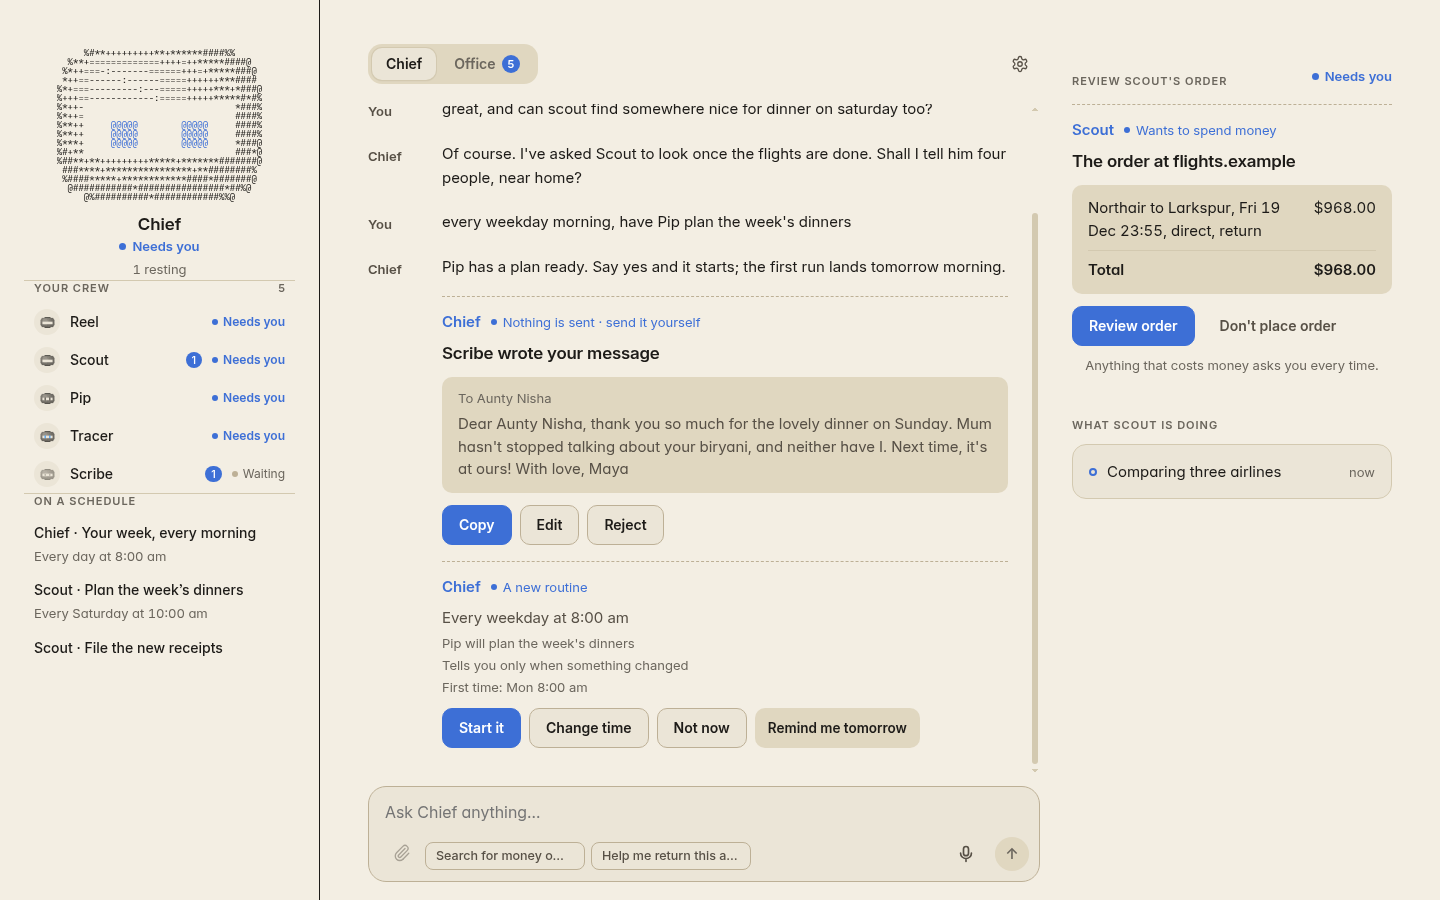
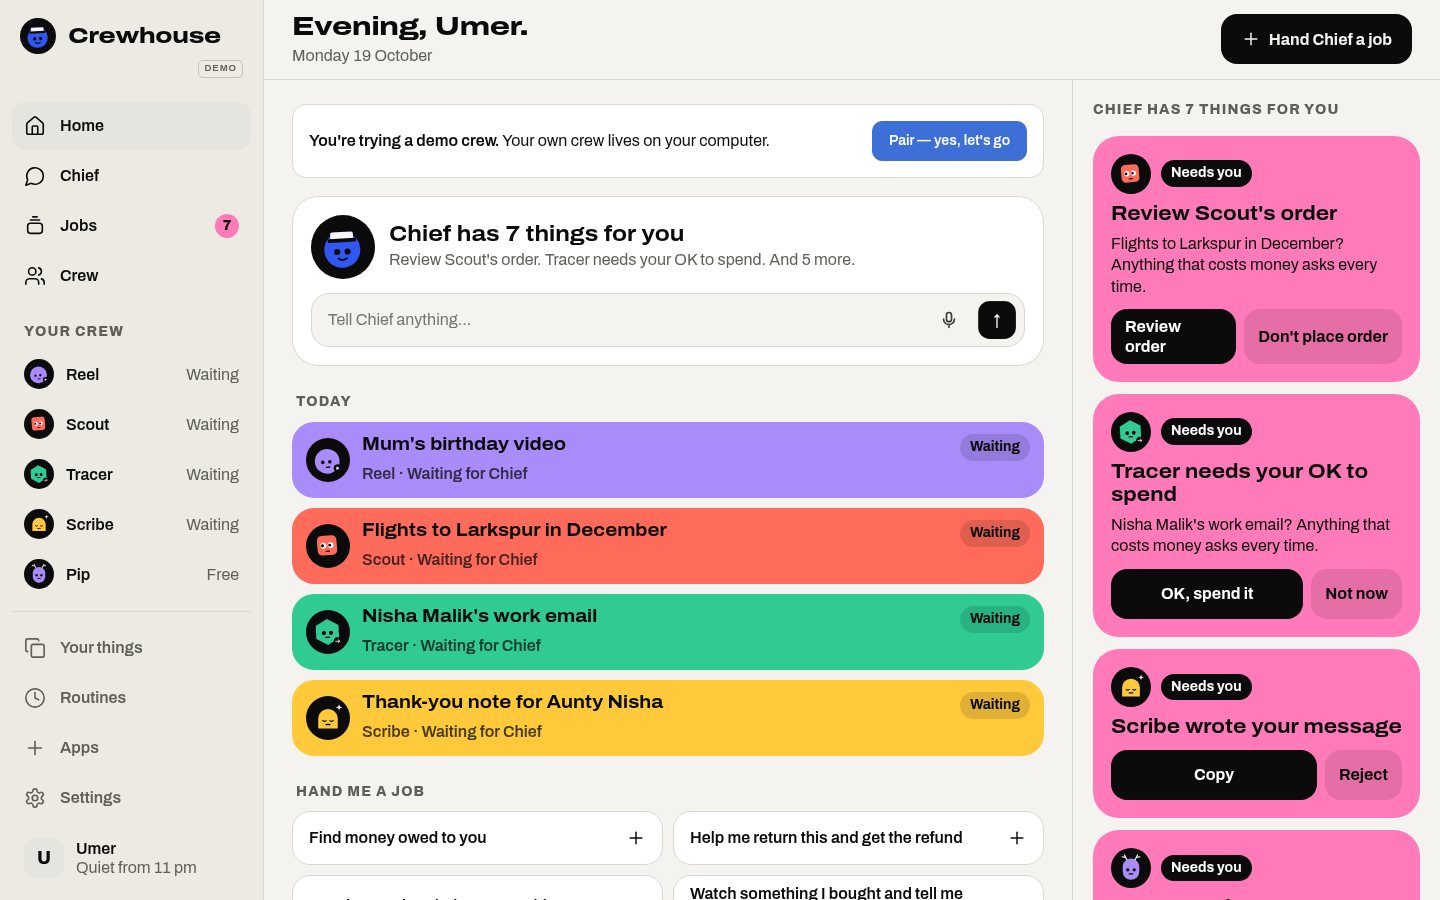
Demo: the made-up person is Umer, and the install sheet's screenshots show today's demo
The seed crew greeted 'Evening, Maya.'; demo data uses the name Umer. Rename it everywhere the demo shows it
(greeting, Settings, drafts and their sign-offs, the claim form, phones, Chief's lines) and in the tests and docs that
quote it. The manifest screenshots (web/shots) were the Inter-era app signed 'Maya'; they are now the Stack demo's
Home at 390x844@2 and 1440x900.

diff --git a/web/src/demo.ts b/web/src/demo.ts
@@ -1,5 +1,5 @@
 // A personal assistant demo in crewd's own shape, plus the fields the engine rework will add (docs/ui-contract.md).
-// Open the app with ?demo (Maya's crew), ?demo=hello (first run), ?demo=first (his first
+// Open the app with ?demo (Umer's crew), ?demo=hello (first run), ?demo=first (his first
 // request, waiting for his sign-in), ?demo=answer (Chief's first answer), ?demo=plan (a plan without helpers),
 // ?demo=resting, ?demo=connect (a helper asks for Google Calendar in chat), ?demo=nogoogle (Google not set up yet), ?demo=share (the crew's share used up today, $4 spent), ?demo=claim (Scout asks to fill a line of an unclaimed-money claim),
 // ?demo=return (Scout asks to press a shop's Start return), ?demo=chase (Scout's chase email as a draft to send), ?demo=renewal (Scout's renewal warning and the cancellation email as a draft to send), ?demo=day (Scout's plan of the day, three things in order),
@@ -63,7 +63,7 @@ const asks = [
   { id: 7, bot: 'scribe', task_id: 43, kind: 'propose', at: now - 3 * min, member: 1, title: 'Scribe wrote your message', detail: {
     words: 'Scribe wrote your message.',
     draft: { channel: 'message', to: 'Aunty Nisha' }, yes: 'Approve',
-    preview: { head: 'Draft for Aunty Nisha', body: "Dear Aunty Nisha, thank you so much for the lovely dinner on Sunday. Mum hasn't stopped talking about your biryani, and neither have I. Next time, it's at ours! With love, Maya" },
+    preview: { head: 'Draft for Aunty Nisha', body: "Dear Aunty Nisha, thank you so much for the lovely dinner on Sunday. Mum hasn't stopped talking about your biryani, and neither have I. Next time, it's at ours! With love, Umer" },
   } },
   { id: 10, bot: 'scout', task_id: null, kind: 'propose', at: now - 4 * min, member: 1, title: 'Scout would like to remember how to do this: Plan the week’s dinners, with a shopping list', detail: {
     words: 'Scout would like to remember how to do this: Plan the week’s dinners, with a shopping list',
@@ -145,8 +145,8 @@ if (many) {
 }
 
 const state = {
-  person: { id: 1, name: 'Maya', address: 'Maya', quiet: '23:00-07:00', onboarded: variant === 'hello' || variant === 'signin' ? 0 : 1 },
-  members: [{ id: 1, name: 'Maya', address: 'Maya', quiet: '23:00-07:00' }],
+  person: { id: 1, name: 'Umer', address: 'Umer', quiet: '23:00-07:00', onboarded: variant === 'hello' || variant === 'signin' ? 0 : 1 },
+  members: [{ id: 1, name: 'Umer', address: 'Umer', quiet: '23:00-07:00' }],
   bots,
   room: { last: { text: 'Scout has passed the story list to Scribe.', at: now - min }, busy: ['scout', 'scribe'] },
   templates: [
@@ -184,7 +184,7 @@ const state = {
     first_job: 'Sort out my invoices', will_do: ['Read the invoices you share', 'Put them in one sheet by due date', 'Ask you before sending or spending'], wont_do: [],
     preview: { body: 'Keeps your invoices in order' } } }]
     : variant.startsWith('phone') || variant === 'finished' ? [] : variant === 'room' ? [{ id: 90, bot: 'scout', task_id: null, kind: 'propose', at: now - min, title: 'Scout wants to hand this to Scribe: draft the story', detail: { words: 'Scout wants to hand this to Scribe: draft the story, with stories.md', pass: { root: 70, files: ['stories.md'] }, preview: { head: 'Scout → Scribe', body: 'Draft the story for your newsletter.' } } }]
-    : variant === 'job-card' ? [{ id: 21, bot: 'chief', task_id: null, kind: 'propose', at: now, member: 1, title: "Chief wrote Pip's job", detail: { job: { bot: 'pip', does: 'Keep Maya’s calendar in order.', aim: 'Help Maya know what is coming.', gets: 'Events and reminders from the person.', how: 'Check dates, add reminders only when asked, and explain changes.', great: 'A clear, accurate week; for example, the dentist with a reminder the evening before.' }, preview: { head: "Pip's job", body: 'What it does: Keep Maya’s calendar in order.\n\nWhat it’s aiming for: Help Maya know what is coming.\n\nWhat it gets from others: Events and reminders from the person.\n\nHow it goes about it: Check dates, add reminders only when asked, and explain changes.\n\nWhat great looks like: A clear, accurate week; for example, the dentist with a reminder the evening before.' } } }]
+    : variant === 'job-card' ? [{ id: 21, bot: 'chief', task_id: null, kind: 'propose', at: now, member: 1, title: "Chief wrote Pip's job", detail: { job: { bot: 'pip', does: 'Keep Umer’s calendar in order.', aim: 'Help Umer know what is coming.', gets: 'Events and reminders from the person.', how: 'Check dates, add reminders only when asked, and explain changes.', great: 'A clear, accurate week; for example, the dentist with a reminder the evening before.' }, preview: { head: "Pip's job", body: 'What it does: Keep Umer’s calendar in order.\n\nWhat it’s aiming for: Help Umer know what is coming.\n\nWhat it gets from others: Events and reminders from the person.\n\nHow it goes about it: Check dates, add reminders only when asked, and explain changes.\n\nWhat great looks like: A clear, accurate week; for example, the dentist with a reminder the evening before.' } } }]
     : variant === 'job-plan' ? [{ id: 22, bot: 'chief', task_id: null, kind: 'propose', at: now, member: 1, title: 'Here’s the plan for “Find the best five standing desks under $400”. Scout starts when you say Go.', detail: {
         words: 'Here’s the plan for “Find the best five standing desks under $400”. Scout starts when you say Go.',
         plan: { bot: 'scout', steps: ['Look through reviews and owners’ forums for standing desks under $400', 'Pick the five that come up best, with any recalls checked', 'Compare them on height range, wobble, size and price in one sheet', 'Tell you the one to buy and why'] } } }]
@@ -192,7 +192,7 @@ const state = {
     : variant === 'claim' ? [{ id: 13, bot: 'scout', task_id: 42, kind: 'permission', at: now - 30_000, member: 1, title: '', detail: {
         effect: 'send', press: true, fill: true, spends: false,
         words: 'Scout wants to fill in 3 lines on the claim form at unclaimed.example.',
-        preview: { head: 'What Scout will fill in on unclaimed.example', body: 'Owner’s full name: Maya Rahman\nAddress the money was owed at: 14 Carter Road, Larkspur\nEmail for this claim: maya.rahman@example.net' } } }]
+        preview: { head: 'What Scout will fill in on unclaimed.example', body: 'Owner’s full name: Umer Rahman\nAddress the money was owed at: 14 Carter Road, Larkspur\nEmail for this claim: umer.rahman@example.net' } } }]
     : variant === 'return' ? [{ id: 16, bot: 'scout', task_id: 47, kind: 'permission', at: now - 30_000, member: 1, title: '', detail: {
         effect: 'send', press: true, spends: false,
         words: 'Scout wants to press “Start return” on shop.example, a site you signed it in to.',
@@ -200,15 +200,15 @@ const state = {
     : variant === 'chase' ? [{ id: 17, bot: 'scout', task_id: 48, kind: 'propose', at: now - 30_000, member: 1, title: 'Scout wrote your email.', detail: {
         words: 'Scout wrote your email.',
         draft: { channel: 'email', subject: 'Order 98765 — returned 16 May, no refund yet', to: 'the shop’s support inbox', why: 'Money back first', path: 'files/chase-order-98765.md', sha: 'demo', link: 'https://shop.example/orders/98765/refund' }, yes: 'Approve',
-        preview: { head: 'Draft for the shop’s support inbox', body: 'Hello, my return reached you on 16 May, inside your own 30-day window. The order page still shows no refund.\n\nPlease confirm when the refund goes back to my card. Regards,\nMaya' } } }]
+        preview: { head: 'Draft for the shop’s support inbox', body: 'Hello, my return reached you on 16 May, inside your own 30-day window. The order page still shows no refund.\n\nPlease confirm when the refund goes back to my card. Regards,\nUmer' } } }]
     : variant === 'renewal' ? [{ id: 18, bot: 'scout', task_id: 49, kind: 'propose', at: now - 30_000, member: 1, title: 'Scout wrote your email.', detail: {
         words: 'Scout wrote your email.',
         draft: { channel: 'email', subject: 'Streaming plan — please cancel before 14 June', to: 'the streaming service’s support inbox', path: 'files/cancel-streaming-plan.md', sha: 'demo' }, yes: 'Approve',
-        preview: { head: 'Draft for the streaming service’s support inbox', body: 'Hello, my Streaming plan renews on 14 June at $18.99. Please cancel it from that date and confirm in writing that nothing further will be charged to my card.\n\nRegards,\nMaya' } } }]
+        preview: { head: 'Draft for the streaming service’s support inbox', body: 'Hello, my Streaming plan renews on 14 June at $18.99. Please cancel it from that date and confirm in writing that nothing further will be charged to my card.\n\nRegards,\nUmer' } } }]
     : variant === 'paper' ? [{ id: 19, bot: 'scout', task_id: 50, kind: 'propose', at: now - 30_000, member: 1, title: 'Scout wrote your email.', detail: {
         words: 'Scout wrote your email.',
         draft: { channel: 'email', subject: 'New-patient form — Friday', to: 'the dental clinic', path: 'files/reply-clinic-form.md', sha: 'demo' }, yes: 'Approve',
-        preview: { head: 'Draft for the dental clinic', body: 'Hello, the signed new-patient form is attached. Friday at 9:30 still suits me, and I can bring my old X-rays if they help.\n\nThank you,\nMaya' } } }]
+        preview: { head: 'Draft for the dental clinic', body: 'Hello, the signed new-patient form is attached. Friday at 9:30 still suits me, and I can bring my old X-rays if they help.\n\nThank you,\nUmer' } } }]
     : variant === 'meals' ? [{ id: 20, bot: 'scout', task_id: 51, kind: 'permission', at: now - 30_000, member: 1, title: '', detail: {
         effect: 'spend', spends: true,
         words: 'Scout wants to place this order at grocer.example: Basmati rice 10 lb, Whole milk (1 gal) x2, Garlic, 2 kg. Total $43.10.',
@@ -267,14 +267,14 @@ const pages: Record<string, Json> = {
   ] } : firstRun ? { messages: [
     { id: 1, author: 'person', text: first },
     { id: 2, author: 'chief', text: 'Before we start: the crew thinks with your own AI account, the one you already pay for.' },
-    ...(variant === 'plan' ? [{ id: 3, author: 'chief', text: "Your ChatGPT plan doesn't include helpers yet. Everything else in ChatGPT is fine. A bigger ChatGPT plan includes it, or you can ask Maya to cover it." }] : []),
+    ...(variant === 'plan' ? [{ id: 3, author: 'chief', text: "Your ChatGPT plan doesn't include helpers yet. Everything else in ChatGPT is fine. A bigger ChatGPT plan includes it, or you can ask Umer to cover it." }] : []),
     ...(variant === 'answer' ? [
-      { id: 3, author: 'chief', text: "You're signed in. Thank you, Maya. On it now." },
+      { id: 3, author: 'chief', text: "You're signed in. Thank you, Umer. On it now." },
       { id: 4, author: 'chief', text: 'Dinners this week: Mon dal & rice · Tue chicken wraps · Wed pasta bake · Thu fish tikka · Fri pizza night.\n\nShopping list (18 items): lentils, rice, onions, garlic, ginger, tomatoes, chicken thighs, wraps, lettuce, yoghurt, pasta, cheddar, passata, white fish, tikka paste, pizza bases, mozzarella, peppers.' },
       { id: 5, author: 'chief', text: 'Shall I do this every Sunday evening?', choices: ['Yes, Sundays', 'Not now'] },
     ] : []),
   ] } : variant === 'connect' ? { messages: [] } : { messages: [
-    { id: 1, author: 'chief', text: "Good evening, Maya. Two small things need you. Scribe's note for Aunty Nisha is ready to go, and Reel would like to save a copy of Mum's video. Scout expects to have flights within ten minutes." },
+    { id: 1, author: 'chief', text: "Good evening, Umer. Two small things need you. Scribe's note for Aunty Nisha is ready to go, and Reel would like to save a copy of Mum's video. Scout expects to have flights within ten minutes." },
     { id: 2, author: 'person', text: 'great, and can scout find somewhere nice for dinner on saturday too?' },
     { id: 3, author: 'chief', text: "Of course. I've asked Scout to look once the flights are done. Shall I tell him four people, near home?", choices: ['Yes, four, near home', 'Six people', 'Somewhere special'] },
     { id: 4, author: 'person', text: "every Monday morning, have Pip plan the week's dinners" },
@@ -285,15 +285,15 @@ const pages: Record<string, Json> = {
     { id: 2, author: 'bot', text: "Love this! I found 38 photos from Eid, and I'll pick the 8 happiest. What kind of music?", choices: ['🎹 Soft & sweet', '🎉 Upbeat', 'No music'] },
     { id: 3, author: 'person', text: 'soft and sweet please' },
     { id: 4, author: 'system', text: "Delivered files/happy-birthday-mum.mp4: Here's a first look 💐" },
-  ], notes: '- Maya likes soft piano music for his videos\n- Mum is "Ammi" in titles', tasks: [],
+  ], notes: '- Umer likes soft piano music for his videos\n- Mum is "Ammi" in titles', tasks: [],
   soul: '# Reel\n\n## How you come across\n- Upbeat and practical: one sentence on what was made, then let the video speak.\n- Loves a tidy thirty seconds: clean cuts, steady pacing, nothing that shouts.\n- Makes a sensible call when something is missing, and says what was assumed.',
   skills: [{ name: 'make-reel', says: 'Turn photos and screenshots into a short video' }, { name: 'birthday-video', says: 'Make a birthday video from your photos', learned: true }] },
 };
 if (variant === 'job-plan') pages.chief.messages.push({ id: 71, author: 'person', text: 'find me a good standing desk under $400, compare the best five' },
-  { id: 72, author: 'chief', text: 'Happy to, Maya. Scout will take it; here is how, before anything starts.' });
+  { id: 72, author: 'chief', text: 'Happy to, Umer. Scout will take it; here is how, before anything starts.' });
 // A helper's finished sheet ends Chief's thread: its Done card (Stack J16a).
 if (variant === 'done') pages.chief.messages.push({ id: 73, author: 'bot', text: 'Your monthly budget is ready: what is planned and spent, the bills by due date, and the savings goals.', files: [{ bot: 'scribe', path: 'files/monthly-budget.xlsx' }] });
-if (variant === 'room') pages.chief.messages.push({ id: 70, author: 'bot', text: 'All done, Maya. Scout: three stories. Scribe: a newsletter draft waiting for your yes.' });
+if (variant === 'room') pages.chief.messages.push({ id: 70, author: 'bot', text: 'All done, Umer. Scout: three stories. Scribe: a newsletter draft waiting for your yes.' });
 if (fresh) pages.chief = { messages: [] };
 if (variant === 'ask-hire') {
   Object.assign(state.person, { name: 'Umer', address: 'Umer' });
@@ -305,7 +305,7 @@ if (variant === 'ask-hire') {
 // with steps done, doing and still to do. Each turn is timed, so the day line carries its time.
 if (variant === 'live') {
   const job = task(47, 'scout', 'Somewhere nice for dinner on Saturday', 'working', { origin: 'chief', created_at: now - 2 * min,
-    body: 'Maya said Go to:\n1. Look for places near home open Saturday evening\n2. Check reviews and a table at 7:30\n3. Send you the best two' });
+    body: 'Umer said Go to:\n1. Look for places near home open Saturday evening\n2. Check reviews and a table at 7:30\n3. Send you the best two' });
   Object.assign(bots.find((b) => b.id === 'scout')!, { task: job, step: { kind: 'task.progress', at: now - min, data: { text: 'Check reviews and a table at 7:30' } } });
   state.tasks.unshift(job);
   events.push(ev(30, 2, 'task.created', 'scout', { task: 47, title: job.title, origin: 'chief' }),
@@ -319,7 +319,7 @@ if (variant === 'live') {
 // ?demo=longthread: a signed-out thread long enough to scroll, for the thread-clear regression test:
 // every provider button and every line must clear the bars and the composer at any scroll position.
 if (variant === 'longthread') for (let i = 0; i < 12; i++) pages.chief.messages.push(
-  { id: 100 + 2 * i, author: 'person', text: `Maya's thread filler message number ${i + 1} about bills and helpers, with enough words to wrap a couple of lines on a phone screen` },
+  { id: 100 + 2 * i, author: 'person', text: `Umer's thread filler message number ${i + 1} about bills and helpers, with enough words to wrap a couple of lines on a phone screen` },
   { id: 101 + 2 * i, author: 'chief', text: 'I will start the moment you sign in with ChatGPT.' });
 if (variant === 'connect') pages.pip = { messages: [
   { id: 1, author: 'person', text: "What's on this week?" },
@@ -478,7 +478,7 @@ if (variant.startsWith('phone')) pages.chief = {
     ...(variant === 'phone-waiting' ? { waiting: { id: 1, name: 'Pixel', words: 'maple lantern' } } : variant === 'phone-paired' ? { joined: 'Pixel' } : {}) },
 };
 for (const b of bots) pages[b.id] ??= { messages: [], notes: '', tasks: [] };
-if (variant.startsWith('job')) pages.pip.job = { does: 'Keep Maya’s calendar in order.', aim: 'Help Maya know what is coming.', gets: 'Events and reminders from the person.', how: 'Check dates, add reminders only when asked, and explain changes.', great: 'A clear, accurate week; for example, the dentist with a reminder the evening before.' };
+if (variant.startsWith('job')) pages.pip.job = { does: 'Keep Umer’s calendar in order.', aim: 'Help Umer know what is coming.', gets: 'Events and reminders from the person.', how: 'Check dates, add reminders only when asked, and explain changes.', great: 'A clear, accurate week; for example, the dentist with a reminder the evening before.' };
 // "Wheeled": the person is holding Scout's controls at its screen, signed it in to a shop, and is about to hand
 // the wheel back — the give-back sheet lists the tabs crewd read itself, and Details lists what it is signed in to.
 // ?demo=b1: the crew the B1 mocks draw — Scout needs you on a $412 flight, Reel and Scribe working, Tracer's
@@ -516,7 +516,7 @@ const accounts = AIS.map((ai) => ({ account: ai.key, name: ai.name,
   signedIn: ai.key === 'chatgpt' && (!signin || variant === 'work'),
   restingUntil: ai.key === 'chatgpt' && variant === 'resting' ? now + 95 * min : 0,
   notIncluded: ai.key === 'chatgpt' && variant === 'plan',
-  work: ai.key === 'chatgpt' && variant === 'work' ? 'maya@mail.example' : false,
+  work: ai.key === 'chatgpt' && variant === 'work' ? 'umer@mail.example' : false,
   signIn: ai.key === 'chatgpt' && variant === 'signin' ? { state: 'waiting', via: 'browser', url: 'https://auth.openai.com/oauth/authorize' } : null }));
 
 // ?demo=handoff: Reel finishes while you watch. 4 s after the page opens the snapshot changes and the two events
@@ -562,7 +562,7 @@ export async function demoCall(method: string, path: string, body?: Json) {
     { id: 81, bot: 'scout', author: 'person', text: 'Find three stories about the neighbourhood.', at: now - 5 * min },
     { id: 82, bot: 'scout', author: 'bot', text: 'Three stories worth telling: a new park, a community garden, and a night market.', at: now - 4 * min },
     { id: 83, bot: 'scribe', author: 'scout', from: 'scout', to: 'scribe', text: 'Draft the story for your newsletter.', at: now - 2 * min, files: [{ bot: 'scribe', path: 'files/from-scout/stories.md' }] },
-    { id: 84, bot: 'chief', author: 'bot', text: 'All done, Maya. Scout: three stories. Scribe: a newsletter draft waiting for your yes.', at: now - min },
+    { id: 84, bot: 'chief', author: 'bot', text: 'All done, Umer. Scout: three stories. Scribe: a newsletter draft waiting for your yes.', at: now - min },
   ], busy: ['scout', 'scribe'], asks: state.asks.filter((a: Json) => a.detail?.pass) };
   if (method === 'GET' && path.startsWith('/api/bots/scout')) return { ...pages.scout, handoff: 'ask', bot: bots.find((x) => x.id === 'scout') };
   const b = /^\/api\/bots\/([a-z0-9-]+)(?:\?.*)?$/.exec(path);
@@ -625,8 +625,8 @@ export async function demoCall(method: string, path: string, body?: Json) {
     return pages.chief.phoneOffer;
   }
   if (method === 'POST' && path === '/api/phones/answer') { pages.chief.phoneOffer = { ...pages.chief.phoneOffer, waiting: null, joined: 'Pixel' }; return { ok: true }; }
-  if (method === 'GET' && path === '/api/phones') return variant === 'nophone' ? [] : [{ id: 1, name: "Maya's phone", seen: now - 5 * min, reached: { home: now - 5 * min }, push: 'on' },
-    { id: 2, name: "Maya's other phone", seen: now - 2 * 60 * min, reached: { home: now - 26 * 60 * min, tailscale: now - 2 * 60 * min }, push: 'off' }];
+  if (method === 'GET' && path === '/api/phones') return variant === 'nophone' ? [] : [{ id: 1, name: "Umer's phone", seen: now - 5 * min, reached: { home: now - 5 * min }, push: 'on' },
+    { id: 2, name: "Umer's other phone", seen: now - 2 * 60 * min, reached: { home: now - 26 * 60 * min, tailscale: now - 2 * 60 * min }, push: 'off' }];
   if (method === 'POST' && path.startsWith('/api/connections/')) return { url: 'https://accounts.google.com/' };
   // Add to your crew's reviewed set and each row's section, as crewd's reviewed list places them.
   if (method === 'GET' && path === '/api/skills') return { live: true, purposes: { gmail: 'mail', calendar: 'mail', drive: 'mail', notion: 'mail', gmailwrite: 'mail', gmailsend: 'mail',

diff --git a/test/pwa-pair.test.ts b/test/pwa-pair.test.ts
@@ -102,10 +102,10 @@ test('the public web app asks where Chief works, pairs by a relay code or the 12
   await run(`(() => { document.querySelector('button.name-ask')?.click(); })()`);
   await until('the name box', () => run(`!!document.querySelector('.name-ask input')`));
   await run(`(() => { const i = document.querySelector('.name-ask input');
-    Object.getOwnPropertyDescriptor(HTMLInputElement.prototype, 'value').set.call(i, 'Maya'); i.dispatchEvent(new Event('input', { bubbles: true })); })()`);
+    Object.getOwnPropertyDescriptor(HTMLInputElement.prototype, 'value').set.call(i, 'Umer'); i.dispatchEvent(new Event('input', { bubbles: true })); })()`);
   await run(`document.querySelector('.hello .idea').click()`);
   await until('onboarded over the link', async () => (await http('GET', '/api/state')).person.onboarded === 1, 20_000);
-  assert.equal((await http('GET', '/api/state')).person.address, 'Maya');
+  assert.equal((await http('GET', '/api/state')).person.address, 'Umer');
 
   // A cold start keeps the grant: the installed app opens paired, never on the demo.
   await send('Page.navigate', { url: shell });

diff --git a/test/draft-copy.test.ts b/test/draft-copy.test.ts
@@ -21,7 +21,7 @@ import { card } from '../web/src/adapter.ts';
 const repo = join(import.meta.dirname, '..');
 const bin = browserBin();
 const LINK = 'https://shop.example/orders/98765/refund';
-const BODY = 'Hello, my return reached you on 16 May, inside your own 30-day window. The order page still shows no refund.\n\nPlease confirm when the refund goes back to my card. Regards,\nMaya';
+const BODY = 'Hello, my return reached you on 16 May, inside your own 30-day window. The order page still shows no refund.\n\nPlease confirm when the refund goes back to my card. Regards,\nUmer';
 const EDIT = 'Hello, my return reached you on 16 May. Where is the refund?';
 
 const parent = temp('draft-web');

diff --git a/docs/verification/pwa-shell.md b/docs/verification/pwa-shell.md
@@ -19,7 +19,7 @@ screen per device size, a rich install sheet, and one quiet install row in Setti
 
 ## How to drive it
 
-Start crewd per [Drive](runbook.md#drive), name the person Maya (`PUT /api/people/1 {"name":"Maya"}`),
+Start crewd per [Drive](runbook.md#drive), name the person Umer (`PUT /api/people/1 {"name":"Umer"}`),
 then write a plan for `scripts/verify/pwa-shell.mjs` (its header lists the step keys). Always give it its own
 `profile` and `home`: it masks every XDG dir, because an install writes a desktop entry and icons into
 `XDG_DATA_HOME` and an inherited one is the owner's own menu.
